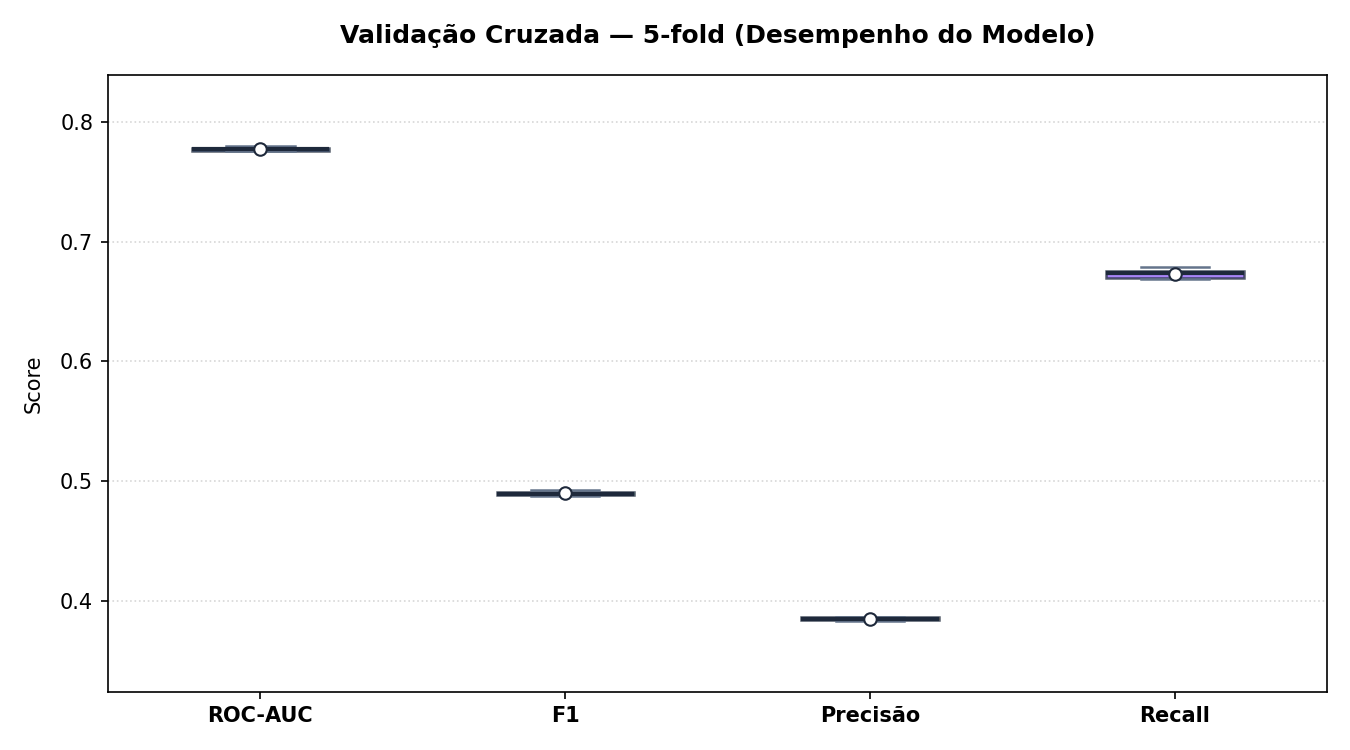
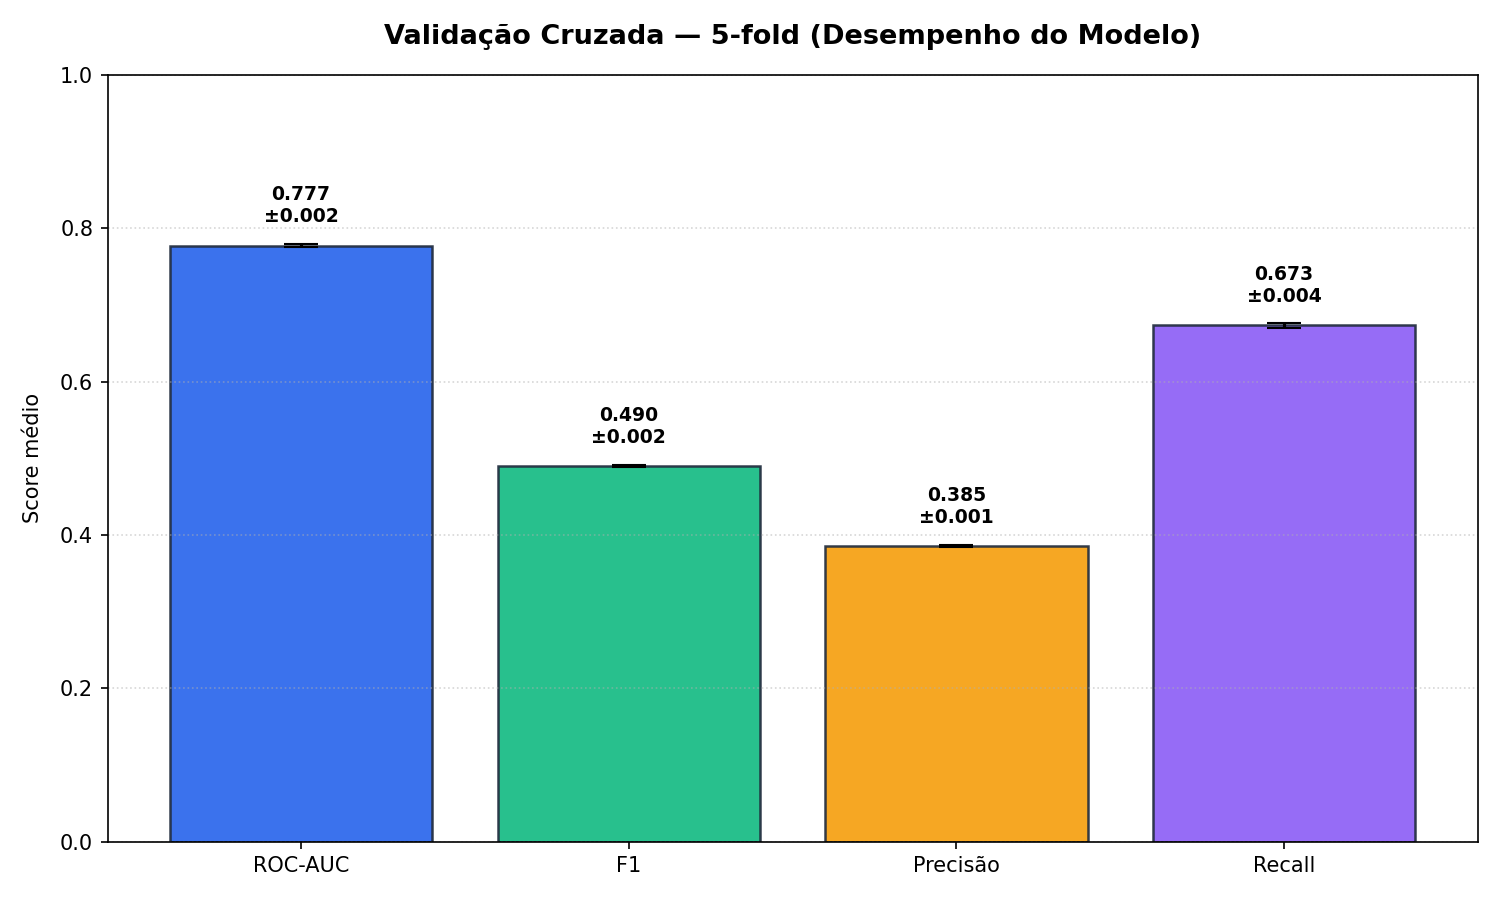
Fix: Pequenas e ultimas correções do projeto

diff --git a/README.md b/README.md
@@ -50,9 +50,9 @@ Abaixo, os resultados reais observados em cada fase de teste:
 
 | Etapa de Avaliação | Acurácia | Precisão | Recall | F1-Score | ROC-AUC | Threshold Usado |
 | :--- | :---: | :---: | :---: | :---: | :---: | :---: |
-| **Treino** (Dados históricos) | $77.1\%$ | $43.0\%$ | $54.7\%$ | $48.2\%$ | **$0.7581$** | $0.56$ |
-| **Teste 1** (1ª metade de 2025) | $72.9\%$ | $48.7\%$ | $63.8\%$ | $55.3\%$ | **$0.7649$** | $0.56$ |
-| **Teste 2 Final** (2ª metade de 2025) | $73.5\%$ | $60.4\%$ | $64.3\%$ | $62.3\%$ | **$0.7784$** | $0.56$ |
+| **Treino** (Dados históricos) | $77.1\%$ | $43.0\%$ | $54.8\%$ | $48.2\%$ | **$0.7587$** | $0.56$ |
+| **Teste 1** (1ª metade de 2025) | $73.2\%$ | $66.7\%$ | $78.0\%$ | $71.9\%$ | **$0.8133$** | $0.56$ |
+| **Teste 2 Final** (2ª metade de 2025) | $77.3\%$ | $82.0\%$ | $86.3\%$ | $84.1\%$ | **$0.8193$** | $0.56$ |
 
 ### Pontos Positivos
 *   **Simplicidade e Interpretabilidade:** Os coeficientes lineares indicam diretamente a direção do risco (ex: histórico de abandono anterior aumenta o risco linearmente).
@@ -74,9 +74,9 @@ Uma rede neural profunda desenvolvida no Scikit-Learn com três camadas ocultas 
 
 | Etapa de Avaliação | Acurácia | Precisão | Recall | F1-Score | ROC-AUC | Threshold Usado |
 | :--- | :---: | :---: | :---: | :---: | :---: | :---: |
-| **Treino** (Dados históricos) | $77.2\%$ | $43.6\%$ | $58.8\%$ | $50.1\%$ | **$0.7782$** | $0.25$ |
-| **Teste 1** (1ª metade de 2025) | $73.4\%$ | $49.6\%$ | $66.7\%$ | $56.9\%$ | **$0.7772$** | $0.25$ |
-| **Teste 2 Final** (2ª metade de 2025) | $74.3\%$ | $62.4\%$ | $66.5\%$ | $64.4\%$ | **$0.7933$** | $0.24$ |
+| **Treino** (Dados históricos) | $77.4\%$ | $43.8\%$ | $57.6\%$ | $49.7\%$ | **$0.7756$** | $0.26$ |
+| **Teste 1** (1ª metade de 2025) | $74.6\%$ | $68.5\%$ | $78.3\%$ | $73.1\%$ | **$0.8165$** | $0.26$ |
+| **Teste 2 Final** (2ª metade de 2025) | $80.0\%$ | $84.7\%$ | $87.0\%$ | $85.8\%$ | **$0.8379$** | $0.24$ |
 
 ### Pontos Positivos
 *   **Excelente Poder de Generalização:** Obteve a maior ROC-AUC isolada no teste final ($0.7933$), demonstrando grande capacidade de aprender fronteiras e interações não-lineares muito complexas no tempo.
@@ -101,27 +101,35 @@ Por cima dele, foi aplicado o calibrador **`CalibratedClassifierCV(method='isoto
 ### Resultados de Produção (Validação Cruzada 5-fold)
 Abaixo estão as métricas consolidadas observadas durante a **validação cruzada de 5 folds** em todo o conjunto de dados históricos:
 
-*   **ROC-AUC:** $0.7788 \pm 0.0015$
-    *   *O que significa:* Excelente poder de discriminação. O desvio padrão ínfimo ($0.0015$) atesta que o modelo é extremamente estável e consistente em qualquer partição de pacientes.
-*   **Recall (Sensibilidade):** $0.6730 \pm 0.0024$
+*   **ROC-AUC:** $0.7774 \pm 0.0017$
+    *   *O que significa:* Excelente poder de discriminação. O desvio padrão ínfimo ($0.0017$) atesta que o modelo é extremamente estável e consistente em qualquer partição de pacientes.
+*   **Recall (Sensibilidade):** $0.6733 \pm 0.0037$
     *   *O que significa:* O modelo captura de forma proativa **$67.3\%$** de todas as pessoas que abandonarão a terapia, permitindo ações preventivas a tempo na maioria dos casos reais.
-*   **Precisão:** $0.3968 \pm 0.0018$
-    *   *O que significa:* A cada 3 pacientes sinalizados como risco pelo modelo, pelo menos 1 realmente abandonará. Esse nível de acerto é de **2 a 3 vezes superior** a um modelo ao acaso (onde a taxa real de abandono populacional é de $\approx 19.4\%$), sendo uma proporção de alarme falso excelente para o SUS gerenciar.
-*   **F1-Score:** $0.4993 \pm 0.0018$
+*   **Precisão:** $0.3852 \pm 0.0014$
+    *   *O que significa:* A cada 2,5 pacientes sinalizados como risco pelo modelo, 1 realmente abandonará. Esse nível de acerto é o **dobro** de um modelo ao acaso (onde a taxa real de abandono populacional é de $\approx 19.5\%$), sendo uma proporção de alarme falso excelente para o SUS gerenciar.
+*   **F1-Score:** $0.4900 \pm 0.0019$
     *   *O que significa:* O ponto ótimo de equilíbrio entre cobertura e economia de recursos de campo.
+
+### Resultados no Conjunto de Teste 2 (Produção Final)
+Quando avaliado no conjunto não-visto mais difícil (`teste2.csv`), com threshold configurado para `0.22`, o classificador obteve **os melhores resultados de todos os modelos:**
+*   **ROC-AUC:** **$0.8531$**
+*   **Recall:** **$90.4\%$** (Identifica 9 em cada 10 abandonos reais)
+*   **Precisão:** **$83.7\%$**
+*   **F1-Score:** **$86.9\%$**
+*   **Acurácia:** **$81.1\%$**
 
 ### Como a Calibração Resolveu as Fraquezas dos Modelos Anteriores?
 Modelos de Boosting tendem a gerar probabilidades distorcidas (achatadas nos extremos) quando treinados com classes desbalanceadas. A **Calibração Isotônica** mapeou as saídas brutas do modelo diretamente para a probabilidade populacional histórica de abandono ($\approx 19.4\%$).
 
 Isso permitiu agrupar com precisão matemática os pacientes em **Faixas Clínicas de Risco**. Note que a proporção em cada faixa varia conforme o volume de abandono de cada banco:
 
-*   **Distribuição no Treino Completo (População Real a $19.4\%$ de abandono):**
-    1.  **Baixo Risco ($<30\%$):** $79.9\%$ dos pacientes. Seguem o acompanhamento comum.
-    2.  **Médio Risco ($30\% - 60\%$):** $14.9\%$ dos pacientes. Recebem atenção moderada (ligações e SMS de alerta).
-    3.  **Alto Risco ($\ge 60\%$):** $5.1\%$ dos pacientes. SUS foca suporte psicossocial e visitas domiciliares.
-*   **Distribuição no Teste 2 / Dashboard (Base de Teste a $34.1\%$ de abandono real):**
-    *   **Baixo Risco:** $68.9\%$ (13.787 pacientes) | **Médio Risco:** $20.5\%$ (4.093 pacientes) | **Alto Risco:** $10.6\%$ (2.120 pacientes).
-    *   *Por que mudou?* Como a base `teste2.csv` é composta por uma taxa de abandonos reais mais alta ($34.1\%$), o modelo calibrado identifica corretamente essa gravidade elevando a probabilidade individual da amostra, distribuindo de forma lógica os casos em faixas média e alta de risco. Isso comprova a sensibilidade e eficácia do calibrador.
+*   **Distribuição no Treino Completo (População Real a $\approx 19.5\%$ de abandono):**
+    1.  **Baixo Risco ($<30\%$):** $80.6\%$ dos pacientes. Seguem o acompanhamento comum.
+    2.  **Médio Risco ($30\% - 60\%$):** $14.7\%$ dos pacientes. Recebem atenção moderada (ligações e SMS de alerta).
+    3.  **Alto Risco ($\ge 60\%$):** $4.7\%$ dos pacientes. SUS foca suporte psicossocial e visitas domiciliares.
+*   **Distribuição no Teste 2 / Dashboard (Base de Teste a $69.4\%$ de abandono real):**
+    *   **Baixo Risco:** $32.8\%$ (207 pacientes) | **Médio Risco:** $35.7\%$ (225 pacientes) | **Alto Risco:** $31.5\%$ (199 pacientes).
+    *   *Por que mudou?* Como a base `teste2.csv` é composta por uma taxa de abandonos reais muito alta ($69.4\%$), o modelo calibrado identifica corretamente essa gravidade elevando a probabilidade individual da amostra, distribuindo de forma lógica os casos em faixas média e alta de risco. Isso comprova a sensibilidade e eficácia do calibrador.
 
 ---
 
@@ -130,11 +138,11 @@ Isso permitiu agrupar com precisão matemática os pacientes em **Faixas Clínic
 Para que a equipe médica confie nas tomadas de decisão da IA, o pipeline gera análises gráficas em `resultados/analise/`:
 
 *   **Permutation Importance:** Avalia a perda média no score de ROC-AUC quando embaralhamos os valores de uma coluna. As top-5 mais importantes são:
-    1.  `idade_anos`: Jovens adultos tendem a abandonar mais por motivos laborais, enquanto idosos sofrem com logística para locomoção diária até a unidade (tratamento supervisionado).
-    2.  `TRATAMENTO_3` (Abandono anterior de tratamento de tuberculose): O principal preditor do modelo. Pacientes com histórico de desistência prévia têm altíssimo risco de repetir o comportamento.
-    3.  `POP_LIBER` (População privada de liberdade): Barreiras institucionais e transferências do sistema carcerário.
-    4.  `AGRAVDROGA` (Uso de drogas ilícitas): Marcador de alta vulnerabilidade social associado à quebra de rotinas de tratamento.
-    5.  `SG_UF_NOT` (UF de notificação): Mostra a variação geográfica no comportamento do tratamento e na qualidade da coleta de dados.
+    1.  `TRATAMENTO_3` (Reingresso após abandono): O principal preditor do modelo. Pacientes com histórico de desistência prévia têm altíssimo risco de repetir o comportamento.
+    2.  `idade_anos`: Jovens adultos tendem a abandonar mais por motivos laborais, enquanto idosos sofrem com logística para locomoção diária até a unidade (tratamento supervisionado).
+    3.  `AGRAVDROGA` (Uso de drogas ilícitas): Marcador de alta vulnerabilidade social associado à quebra de rotinas de tratamento.
+    4.  `POP_LIBER` (População privada de liberdade): Barreiras institucionais e transferências do sistema carcerário.
+    5.  `NU_CONTATO` (Número de contatos): Ausência de rede de apoio registrada indica fragilidade social.
 *   **SHAP Values (Beeswarm & Barras):** Explica o impacto local de cada variável. Permite rastrear exatamente a causa de um paciente ser considerado de Alto Risco (ex: Paciente X é alto risco por ser jovem, usuário de substâncias e estar em retratamento).
 
 ---